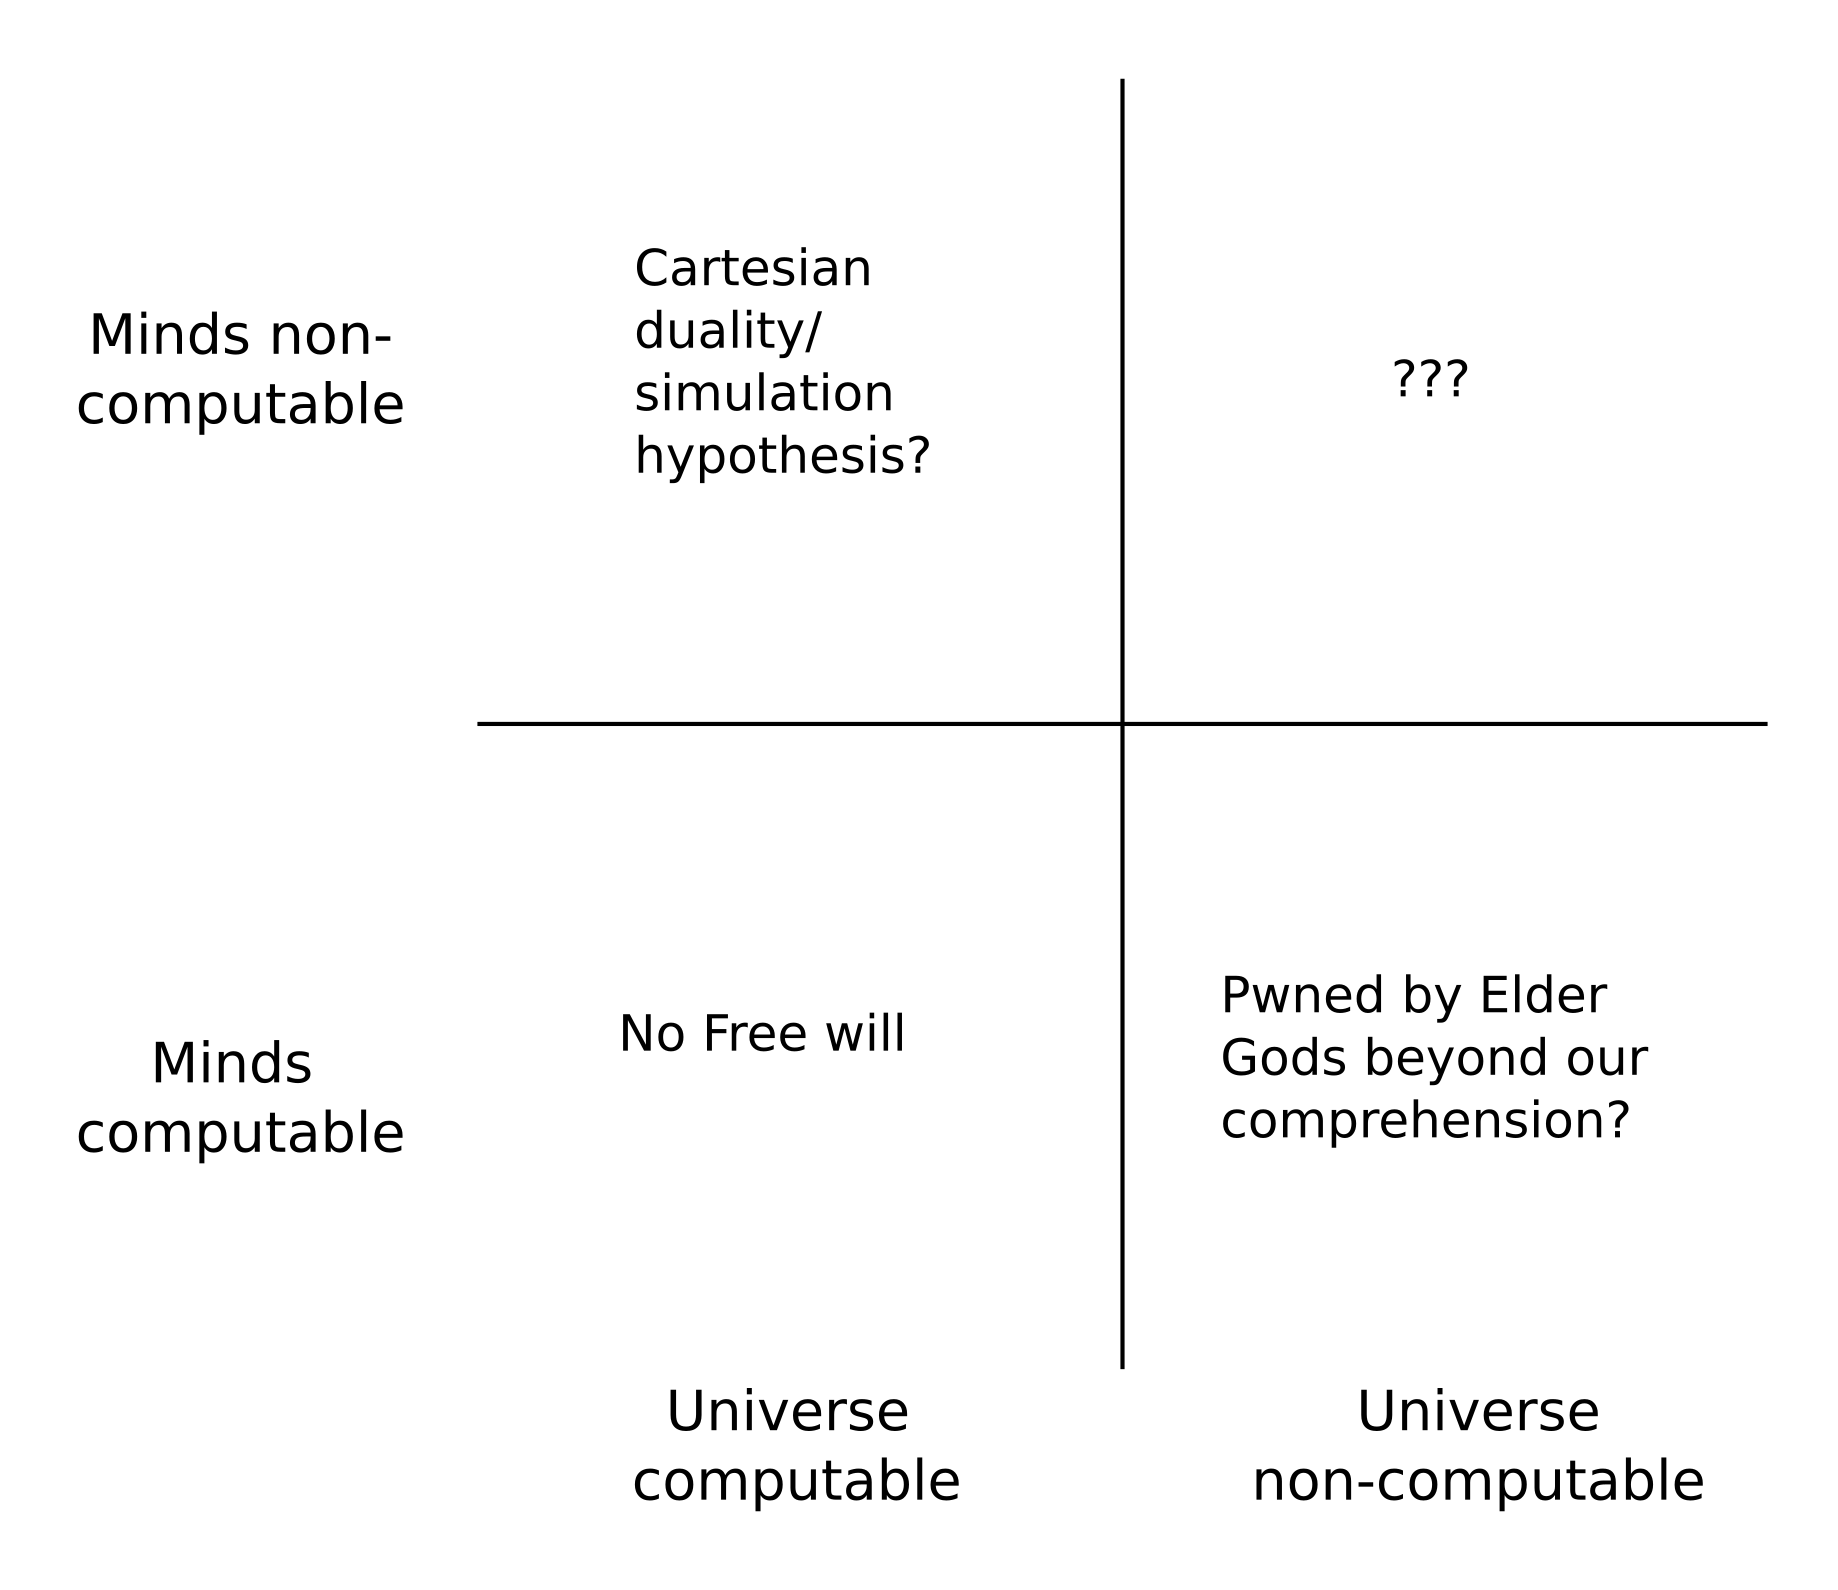
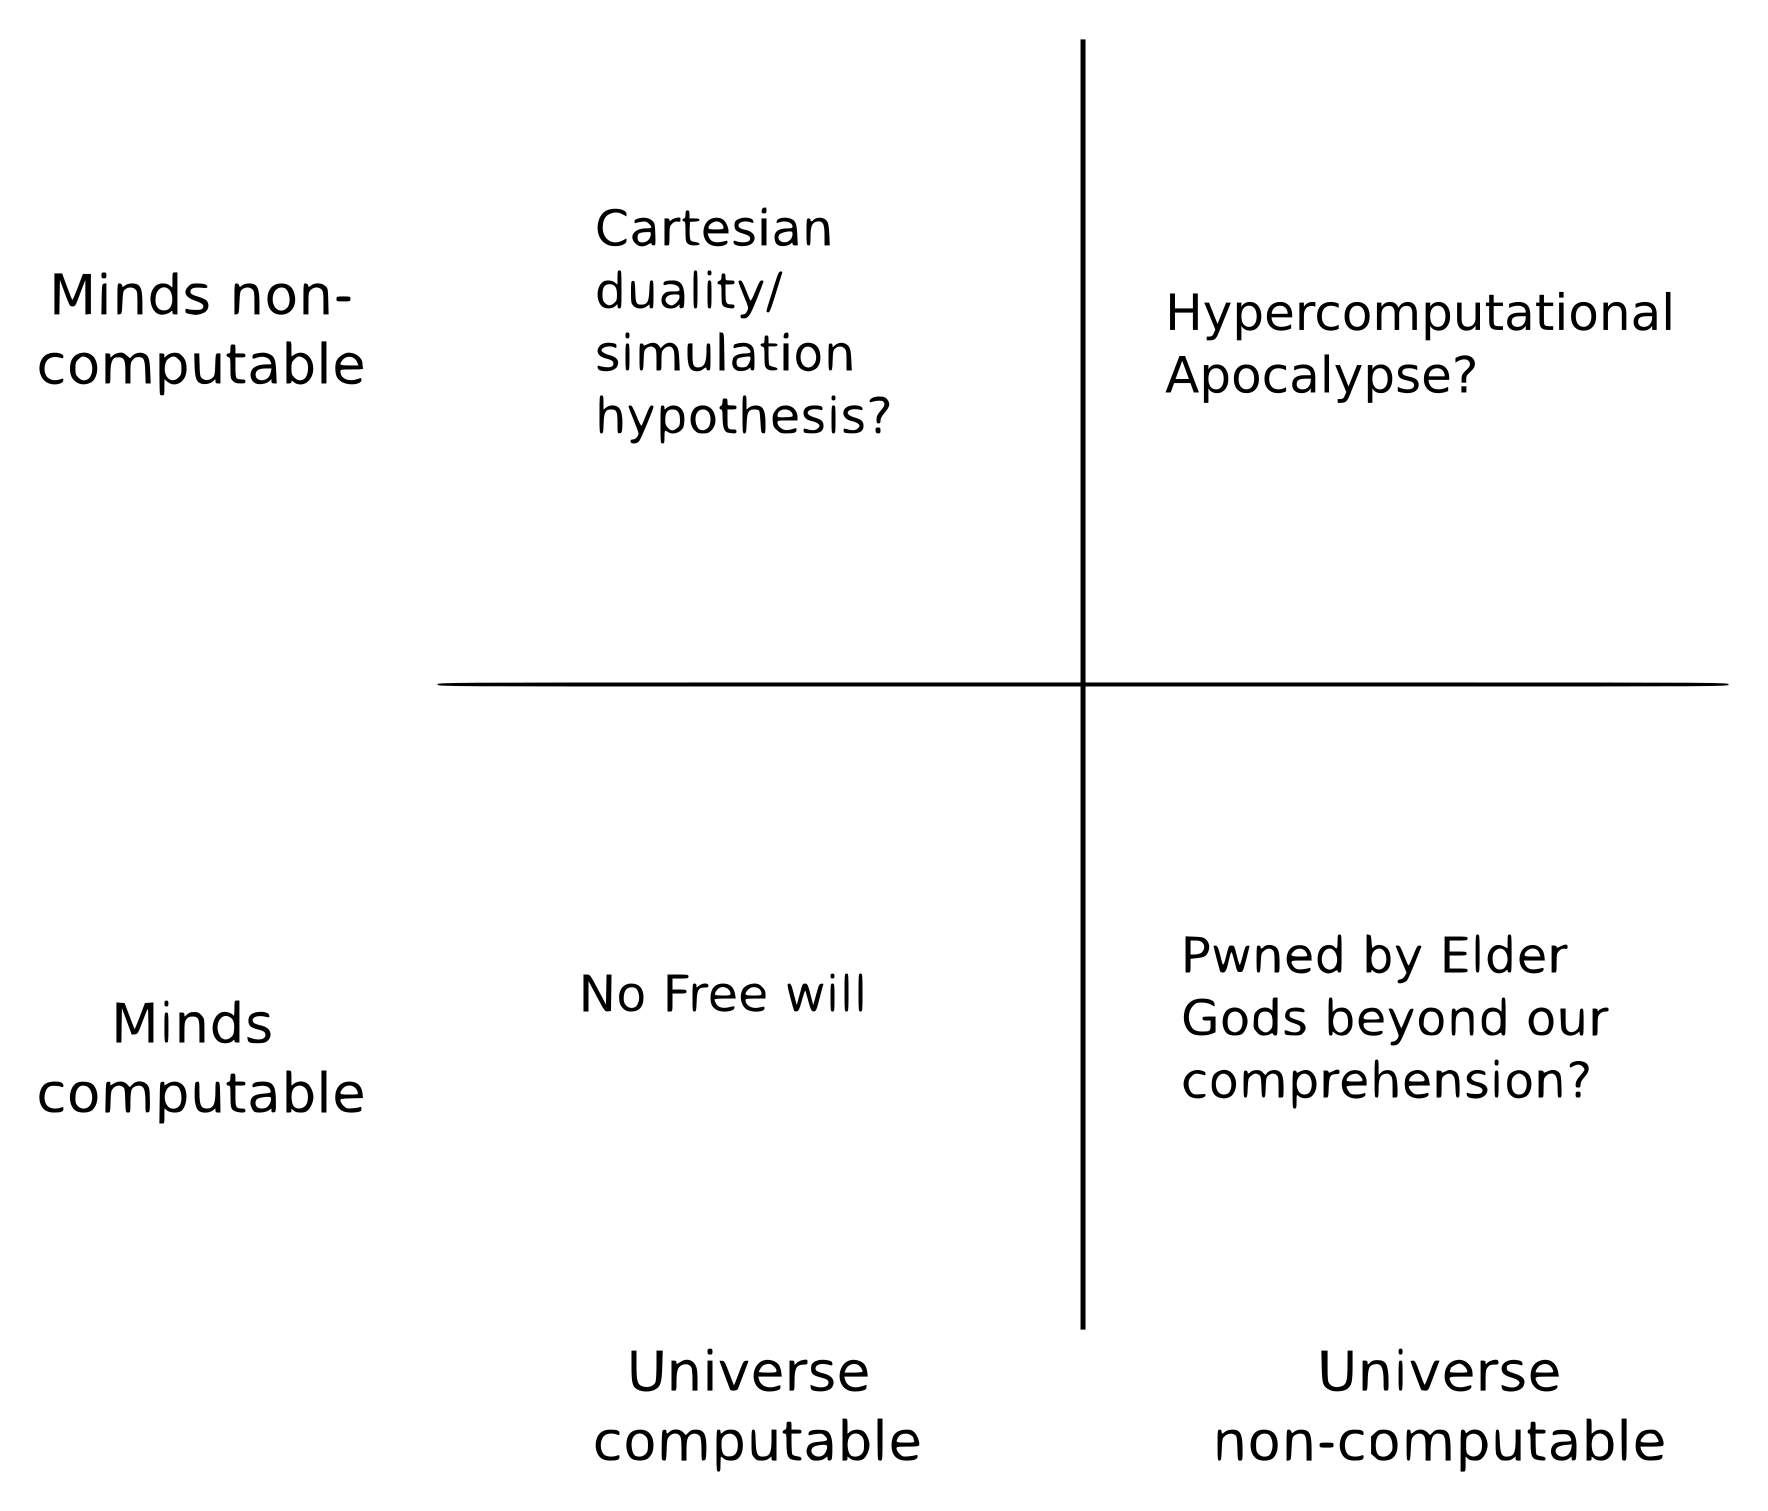
Minor edits and Addendum

diff --git a/_posts/2024-07-12-do-you-believe-in-real-numbers.md b/_posts/2024-07-12-do-you-believe-in-real-numbers.md
@@ -33,7 +33,7 @@ I hope at least to elicit the second of these symptoms, but beware that the last
 In order to make $\pi$, we first have to invent the universe, which in our case means the basic language from which everything is built up. Namely, [*Peano arithmetic*](https://en.wikipedia.org/wiki/Peano_axioms), which is the canonical formalization of the natural numbers. The rules of Peano arithmetic are essentially expressed in four axioms:
 
 1. $0$ is a natural number.
-2. If $n$ is a natural number, then its *successor* $S(n)$ is a natural number.
+2. If $n$ is a natural number, then its *successor* $S(n)$ (morally, '$n+1$') is a natural number.
 3. For all $n$, $S(n) \neq 0$, i.e. there is no natural number "before" $0$.
 4. For all natural numbers $m, n$, $S(m) = S(n) \Rightarrow m = n$, i.e. the successor operation is injective.
 
@@ -167,7 +167,9 @@ q_1 \ast q_2 & \text{if } q_1,q_2 \ge 0 \text{ or } q_1 \ast q_2 \le 0, \\
 - q_1 \ast q_2 & \text{if } q_1,q_2 < 0. 
 \end{cases} $$
 
-It is not too complicated to show that if $x,y \in \mathbb{R}$ and $p,q \in \mathbb{Q}$ such that $p \le x$ and $q \le y$, then $p \circledast  q \le x \ast y$, so that we may define the product of two real numbers as
+It is not too complicated to show[^formality] that if $x,y \in \mathbb{R}$ and $p,q \in \mathbb{Q}$ such that $p \le x$ and $q \le y$, then $p \circledast  q \le x \ast y$, so that we may define the product of two real numbers as
+
+[^formality]: I'm being less than entirely formal here, but to be rigorous, we should interpret $p \le x$ and $q \le y$ as $p \in x$ and $q \in y$.
 
 $$L_1 * L_2 \; := \; \{ s \circledast  t \, | \, s \in L_1, t \in L_2 \}. $$
 
@@ -196,7 +198,7 @@ Algebraically, computable numbers form a *field* that contains
 
 In fact, computable numbers contain most numbers we encounter in practice. However, computable numbers are *countable*! 
 
-Why? The reason is simple. A computable number has to be uniquely identified by a Turing machine (morally, a program), which takes up finitely many symbols chosen from a finite alphabet to express. This means the set of all programs/Turing machines is countable, so the programs that compute numbers also must be.
+Why? The reason is simple. A computable number has to be uniquely identified by a Turing machine (morally, a program), which takes up finitely many symbols chosen from a finite alphabet to express. This means the set of all programs/Turing machines is countable, so the programs that compute numbers must be countable too.
 
 But since real numbers are uncountable, there must exist real numbers that are not computable.
 
@@ -231,7 +233,7 @@ Now for an infinite string of symbols, we can look at how the Kolmogorov complex
 
 Using this notion, we can define an [*algorithmically random number*](https://en.wikipedia.org/wiki/Algorithmically_random_sequence) as a real number such that the Kolmogorov complexity of its truncated binary expansions $s$ satisfies 
 $$K_A(s) > |s| - O(1),$$ 
-where $|s|$ denotes the length of the finite string $s$.
+where $|s|$ denotes the length of the finite string $s$. In other words, the prefixes of $s$ are all "maximally complex", and their Kolmogorov complexity diverges. 
 
 Algorithmically random numbers capture the idea of "random" numbers due to an important characterization: They are indistinguishable from random noise by *any* statistical test[^randomness]. Another (which is really the same), is that there is no computable betting strategy that reliably makes money against the sequence of digits of an algorithmically random number.
 
@@ -247,7 +249,7 @@ Thanks to these facts, we can now give an interpretation to non-computable numbe
 >
 > --- L. Wittgenstein
 
-After all this math, we should probably stop and look back on what it might all mean in practice. We looked at computable numbers and observed that they were pretty much the only numbers we encounter, and that non-computable numbers (which actually are *almost all* real numbers) fit our intuition of randomness. We can go further than that and explore what exists in mathematics beyond computable numbers, and do some armchair philosophy about how to interpret this formalized notion of randomness.
+After all this math, we should probably stop and look back on what it might all mean in practice. We looked at computable numbers and observed that they were pretty much the only numbers we encounter, and that non-computable numbers (which are actually *almost all* real numbers) fit our intuition of randomness. We can go further than that and explore what exists in mathematics beyond computable numbers, and do some armchair philosophy about how to interpret this formalized notion of randomness.
 
 ### What does it mean to "know" a number?
 
@@ -269,9 +271,11 @@ Coming back to computable numbers, while there are numbers definable beyond them
 
 Let us conclude by continuing the discussion we started when observing that science can only manipulate computable numbers. If we think of science as the rational description of the empirical world, we can consider the following "picture":
 
-- **The Territory**, i.e. the Universe,
+- **The Territory**, i.e. the (empirical) Universe[^universe],
 - **The Map**, i.e. Science,
 - **The Mapmaker**, i.e. (Human?) minds.
+
+[^universe]: My wording is ambiguous here, but by and large in this section, by "Universe", I mean "The empirical universe", i.e. the "physical reality" that sciences tries to describe.
 
 As previously established, Science is computable, which leaves open the status of the other two parts. These are major philosophical questions that have never been more relevant than today.
 
@@ -279,15 +283,18 @@ First, whether human minds are computable. This is the founding postulate of the
 
 There is another question that interests me more, however. If human cognition is computable, then how come we are able to conceive of non-computable things? What happens inside a mathematician's mind when he/she thinks of say, Chaitin's Omega? The straightforward answer would be that we are just fooling ourselves, but we seem to be able to reason perfectly fine about these objects supposedly beyond our comprehension.
 
-Second, whether the Universe is computable. This could be otherwise stated as whether there is such a thing as *true* randomness. The obvious candidate for this would be quantum mechanics. As a side note, let us remark that probability theory, the usual way to deal mathematically with randomness, was initially created to deal with *uncertainty*, in the sense of things that we could in principle know, but don't. The existence of "true" randomness would imply that there are things that we *cannot* know.
+Second, whether the Universe is computable. This could be otherwise stated as whether there is such a thing as *true randomness*. The obvious candidate for this would be quantum mechanics. As a side note, let us remark that probability theory, the usual way to deal mathematically with randomness, was initially created to deal with *uncertainty*, in the sense of things that we could in principle know, but don't. The existence of "true" randomness would imply that there are things that we *cannot* know.
 
 Finally, we can consider the combinations of these two questions:
 
 1. If minds are non-computable, and the universe isn't, then there must be clearly be something "outside" the empirical world from where our non-computable minds emanate. This would suggest something like [Cartesian Dualism](https://en.wikipedia.org/wiki/Mind%E2%80%93body_dualism), or the [Simulation Hypothesis](https://en.wikipedia.org/wiki/Simulation_hypothesis).
-2. If neither minds nor the universe are computable, there doesn't seem to be much that we can say, beyond the observation that there would be facts about the universe that science can never elucidate.
+2. If neither minds nor the universe are computable, there doesn't seem to be much that we can say a priori, beyond the observation that there would be facts about the universe that science can never elucidate. There is however a wild possibility in that case[^dash]. If non-computable physical processes exist, it may be possible for us to harness them to perform [*hypercomputation*](https://en.wikipedia.org/wiki/Hypercomputation). The consequences of that would be literally *apocalyptic*[^apocalypse], as we would be able to do things like solve the Halting Problem or solve the Collatz Conjecture by brute force in an instant. Since these would still be out of the grasp of computable science, we may have to develop a higher order "Hyperscience" that can cope with non-computable objects.
 3. If both minds and the universe are computable, we seem to be in the opposite situation that science could in principle come to a complete description of the universe, but that since minds are computational processes (and therefore deterministic), the notion of Free Will is completely illusory.
 4. If minds are computable, but the universe isn't, we seem even worse off than in the previous case. Not only is Free Will an illusion (perhaps due to non-computable processes acting as inputs to our minds), but we have no hope of achieving a complete rational picture of the universe. Even worse, there might exist true [non-computable minds](https://en.wikipedia.org/wiki/Solomonoff's_theory_of_inductive_inference), to which we would be as ants. This is probably not a good universe for us to exist in.
 
+[^dash]: Thanks to Dashiell Stander for pointing that out to me.
+
+[^apocalypse]: The word "Apocalypse" here should be understood as both "[The End of the World as we know it](https://en.wikipedia.org/wiki/Apocalyptic_and_post-apocalyptic_fiction)" and "[Cosmic Revelation](https://en.wikipedia.org/wiki/Apocalypse)".
 
 ![](/assets/img/real/map-territory.png)
 
